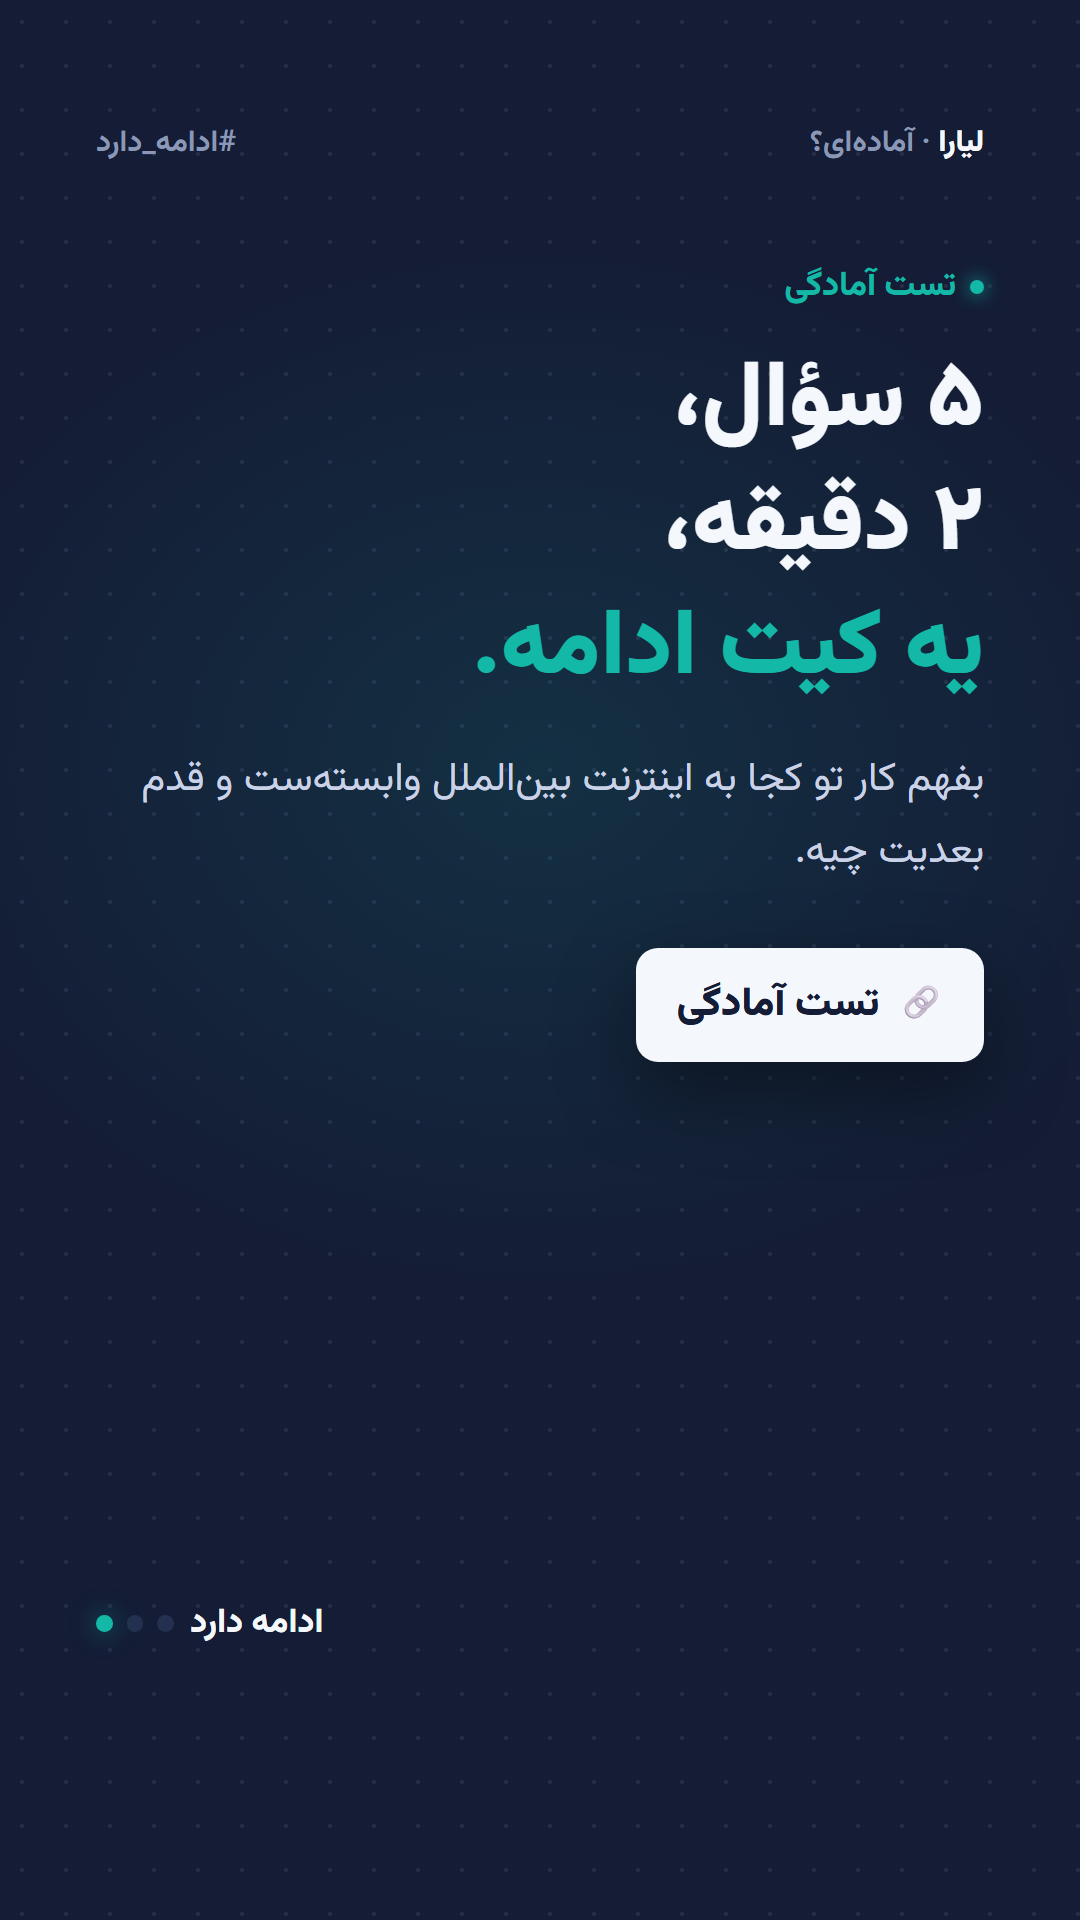
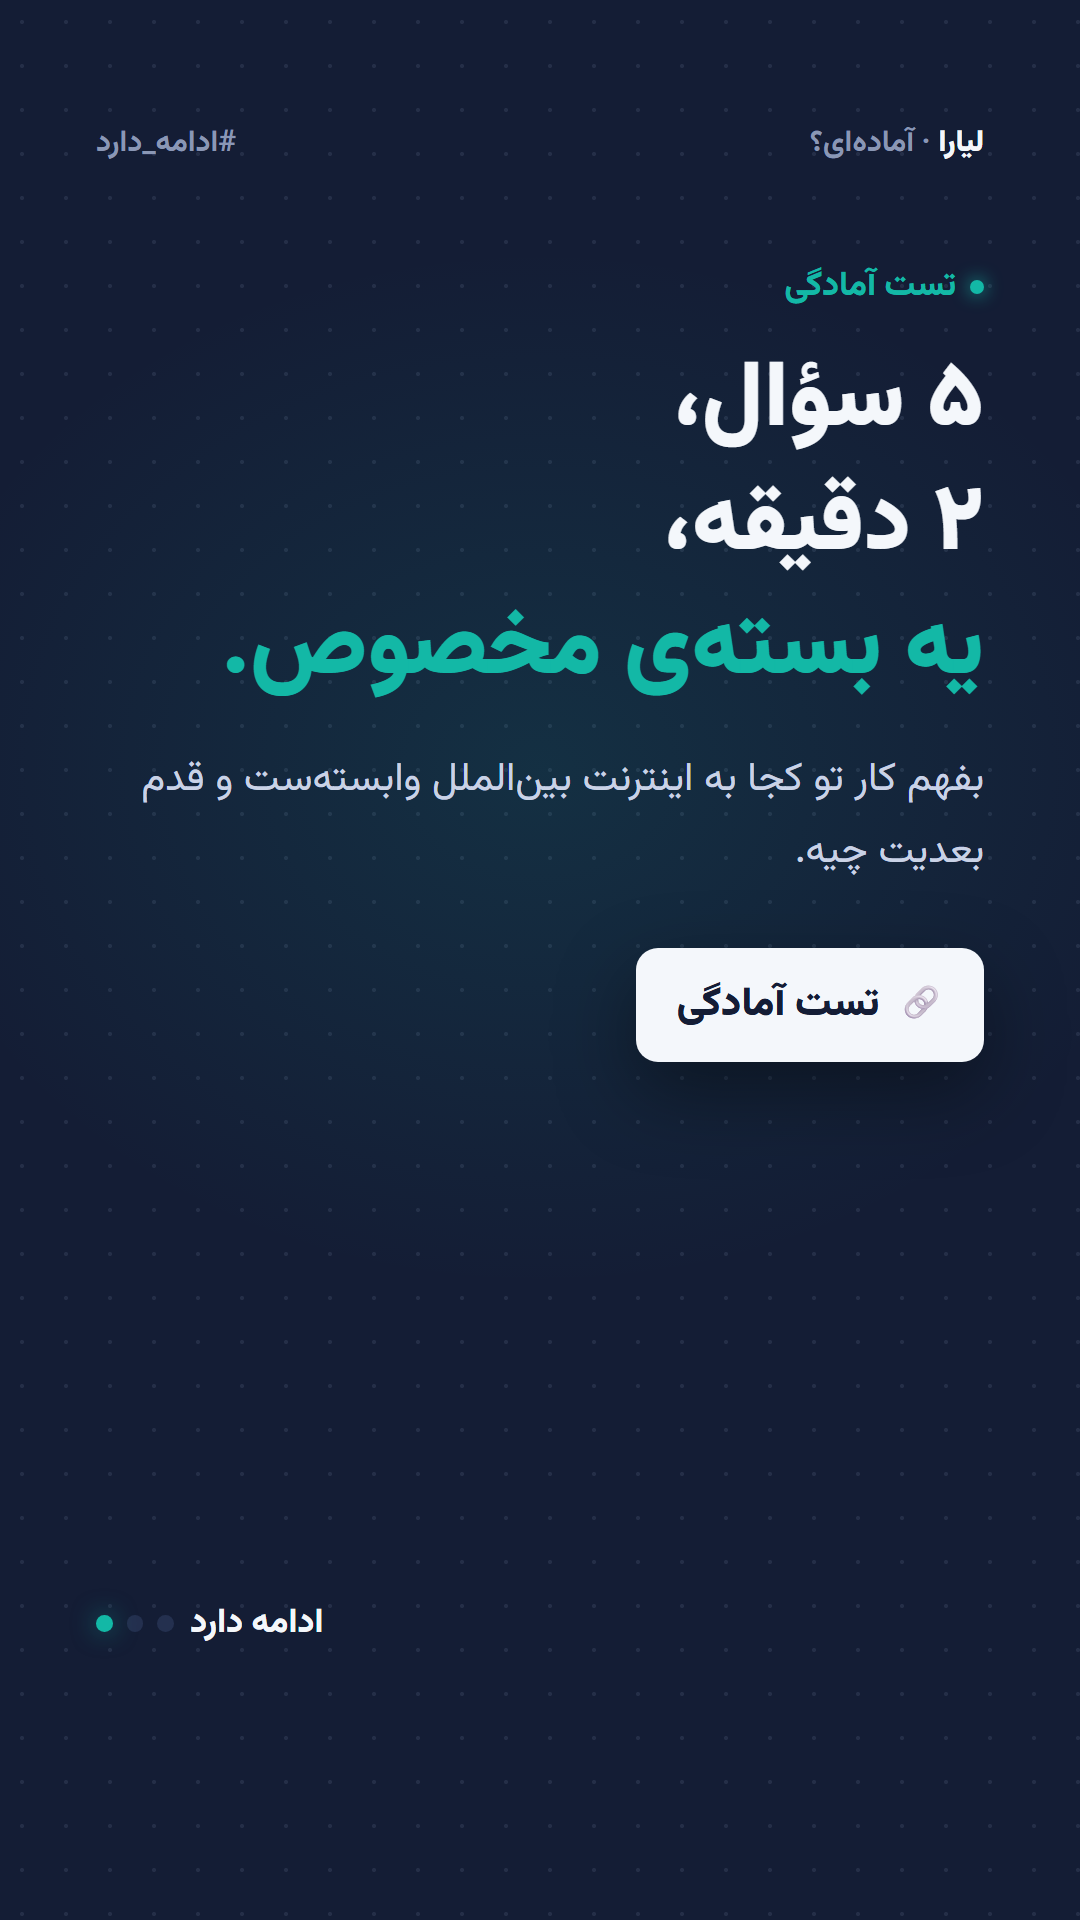
Rename کیت ادامه to بستهی مخصوص across the campaign
Landing quiz result, copy button and copied text, share description,
readiness story, carousel caption, LinkedIn post, showcase page and
strategy doc.

Changed region(s): [[0.2139, 0.3125, 0.5194, 0.375], [0.55, 0.3125, 0.825, 0.375]]

diff --git a/landing/app.js b/landing/app.js
@@ -269,14 +269,14 @@
       : [];
     const todo = [...all.filter((x) => !x.done), ...extra, { ...DRILL, done: false }, ...all.filter((x) => x.done)];
 
-    const kitText = `کیت ادامهی من — امتیاز آمادگی: ${fa(score)} از ۱۰۰\n` +
+    const kitText = `بستهی مخصوص من — امتیاز آمادگی: ${fa(score)} از ۱۰۰\n` +
       todo.map((x, i) => `${x.done ? '✓' : '☐'} ${fa(i + 1)}. ${x.t} — ${x.d}`).join('\n') +
       `\n\n#ادامه_دارد · اینترنت ممکنه قطع بشه، مسیرت نه.`;
 
     stage.innerHTML = `
       <div class="result-top">
         <div class="ring" style="--p:${motion ? 0 : score};--c:${level.c}"><b>${fa(motion ? 0 : score)}</b></div>
-        <div><div class="q-count">کیت ادامهی ${BIZ[biz].name}</div><h3>${level.h}</h3><p>${level.p}</p></div>
+        <div><div class="q-count">بستهی مخصوص ${BIZ[biz].name}</div><h3>${level.h}</h3><p>${level.p}</p></div>
       </div>
       <div class="kit">
         ${todo.map((x, i) => `
@@ -288,7 +288,7 @@
       </div>
       <div class="result-actions">
         <a class="btn" href="${L.auth}" data-track="quiz_result_${score}">ثبتنام و شروع روی لیارا</a>
-        <button class="btn btn-ghost" id="copy-kit">کپی کیت ادامه</button>
+        <button class="btn btn-ghost" id="copy-kit">کپی بسته</button>
         <button class="btn btn-ghost" id="restart">دوباره</button>
       </div>
       <p class="disclaimer">این امتیاز یک خودارزیابی سریعه؛ ارزیابی تخصصی یا تضمین دسترسپذیری نیست. سناریوی واقعی کارت رو حتماً تست کن.</p>`;

diff --git a/landing/index.html b/landing/index.html
@@ -6,7 +6,7 @@
 <title>ادامه دارد… | اینترنت ممکنه قطع بشه، مسیرت نه — کمپین لیارا</title>
 <meta name="description" content="کار تو حتی وسط قطعی اینترنت بینالملل هم میتونه ادامه پیدا کنه: میرورهای ایرانی، زیرساخت داخل ایران و یک تست آمادگی ۲ دقیقهای.">
 <meta property="og:title" content="ادامه دارد… — اینترنت ممکنه قطع بشه، مسیرت نه.">
-<meta property="og:description" content="تست آمادگی ۲ دقیقهای و کیت ادامهی مخصوص کار تو، با راهکارهای لیارا.">
+<meta property="og:description" content="تست آمادگی ۲ دقیقهای و بستهی مخصوص کار تو، با راهکارهای لیارا.">
 <meta property="og:image" content="https://royajafari.github.io/liara-edame-darad/linkedin/linkedin-cover.png">
 <meta property="og:url" content="https://royajafari.github.io/liara-edame-darad/landing/">
 <meta name="twitter:card" content="summary_large_image">

diff --git a/index.html b/index.html
@@ -65,7 +65,7 @@
   </div>
 
   <h2><span class="n">۰۴</span>لندینگ کمپین <a href="landing/">باز کردن ←</a></h2>
-  <p>تست آمادگی ۵ سؤالی که «کیت ادامه»ی اختصاصی میسازد؛ بدون هیچ وابستگی خارجی.</p>
+  <p>تست آمادگی ۵ سؤالی که برای هر کسبوکار «بستهی مخصوص» میسازد؛ بدون هیچ وابستگی خارجی.</p>
 
   <h2><span class="n">۰۵</span>انتشار در لینکدین <a href="linkedin/post.md">متن پست ←</a></h2>
   <div class="li"><img src="linkedin/linkedin-cover.png" alt="کاور لینکدین"></div>

diff --git a/highlights/highlights.html b/highlights/highlights.html
@@ -159,7 +159,7 @@ story('s3-2', '', 'زیرساخت', `
 // 4 — آمادهای؟
 story('s4-1', '', 'آمادهای؟', `
   <div class="eyebrow">تست آمادگی</div>
-  <h2>۵ سؤال،<br>۲ دقیقه،<br><em>یه کیت ادامه.</em></h2>
+  <h2>۵ سؤال،<br>۲ دقیقه،<br><em>یه بستهی مخصوص.</em></h2>
   <p class="body">بفهم کار تو کجا به اینترنت بینالملل وابستهست و قدم بعدیت چیه.</p>
   <div class="link">تست آمادگی</div>`);
 story('s4-2', '', 'آمادهای؟', `

diff --git a/docs/strategy.md b/docs/strategy.md
@@ -32,7 +32,7 @@
 | | مخاطب | دغدغه | نقش در کمپین |
 |---|---|---|---|
 | **اصلی** | توسعهدهندهها و تیمهای فنی (فریلنسر تا CTO استارتاپ) | `npm install` و `docker pull` کار نمیکند؛ سرور خارجی در دسترس نیست | همهی کاروسل و هایلایتها با زبان و تصویر آنها (ترمینال) ساخته شده |
-| **ثانویه** | صاحبان فروشگاه اینترنتی | توقف فروش، درگاه و پیامک | بخش «کار تو چیه؟» لندینگ + آیتم اختصاصی در کیت ادامه |
+| **ثانویه** | صاحبان فروشگاه اینترنتی | توقف فروش، درگاه و پیامک | بخش «کار تو چیه؟» لندینگ + آیتم اختصاصی در بستهی مخصوص |
 | **ثانویه** | مدیران IT سازمانها | تداوم سرویس، بکاپ و بازیابی | بخش «سامانهی سازمانی» لندینگ |
 
 **لحن:** صمیمی و محاورهای («تو»)، رک، فنی، آرام. نمیترسانیم؛ آماده میکنیم.
@@ -58,7 +58,7 @@ flowchart TD
     A["Attention<br>کاروسل: ترمینال ETIMEDOUT<br>پست لینکدین"] --> B["Interest<br>اسلایدهای ۲ تا ۶<br>هایلایت قطعی؟ و میرورها"]
     B --> C["Desire<br>چکلیست قابلذخیره، اسلاید ۷<br>«تنها نیستی»، اسلاید ۸"]
     C --> D["Action 1: لینک بیو → لندینگ"]
-    D --> E["تست آمادگی ۵ سؤالی<br>→ کیت ادامهی اختصاصی"]
+    D --> E["تست آمادگی ۵ سؤالی<br>→ بستهی مخصوص"]
     E --> F["Action 2: کنسول لیارا<br>UTM بر اساس امتیاز"]
     F --> G["Retention<br>هایلایت شروع کن، مستندات، تمرین قطعی"]
 ```
@@ -67,8 +67,8 @@ flowchart TD
 |---|---|---|
 | آگاهی | اسلاید ۱ کاروسل، پست لینکدین | قلاب «کار تو چی؟» + فوتر «ادامه دارد…» |
 | علاقه | اسلایدهای ۲ تا ۶، هایلایتهای «قطعی؟» و «میرورها» | راهکار مشخص و قابلامتحان (دستور یکخطی) |
-| تمایل | اسلاید ۷ (چکلیست، برای Save)، اسلاید ۸ (همراهی) | «کیت ادامهی مخصوص کارت» در اسلاید ۹ |
-| اقدام | لندینگ: تست آمادگی، انتخاب نوع کسبوکار | CTAهای شخصیشده در کیت ادامه |
+| تمایل | اسلاید ۷ (چکلیست، برای Save)، اسلاید ۸ (همراهی) | «بستهی مخصوص کارت» در اسلاید ۹ |
+| اقدام | لندینگ: تست آمادگی، انتخاب نوع کسبوکار | CTAهای شخصیشده در بستهی مخصوص |
 | تبدیل | کنسول لیارا | پرداخت ساعتی = ریسک پایین برای امتحان |
 | وفاداری | هایلایت «شروع کن»، مستندات، تمرین قطعی | آمادگی تمرینشونده است، نه یکباره |
 
@@ -112,7 +112,7 @@ flowchart TD
 
 ### لندینگ
 
-Hero (ترمینال زنده) ← «در قسمت قبل…» (مسئله) ← سه قدم تا ادامه (دستورهای قابلکپی) ← کار تو چیه؟ (سه نوع کسبوکار) ← تست آمادگی و کیت ادامه ← تنها نیستی ← FAQ صادقانه ← «قسمت بعدی رو خودت بنویس».
+Hero (ترمینال زنده) ← «در قسمت قبل…» (مسئله) ← سه قدم تا ادامه (دستورهای قابلکپی) ← کار تو چیه؟ (سه نوع کسبوکار) ← تست آمادگی و بستهی مخصوص ← تنها نیستی ← FAQ صادقانه ← «قسمت بعدی رو خودت بنویس».
 
 **اثبات عملی:** لندینگ هیچ وابستگی خارجی ندارد و تعداد درخواستهای خارجی را زنده با Performance API نمایش میدهد.
 

diff --git a/linkedin/post.md b/linkedin/post.md
@@ -22,7 +22,7 @@
 1⃣ هویت بصری: لوگوتایپ، پالت سرمهای/فیروزهای/کهربایی و تایپوگرافی وزیرمتن
 2⃣ کاروسل ۹ اسلایدی: از ترمینالی که `ETIMEDOUT` میده تا راهکار؛ هر اسلاید مثل یک قسمت سریال با «ادامه دارد…» تموم میشه
 3⃣ ۵ هایلایت اینستاگرام با ۱۱ استوری: قطعی؟ · میرورها · زیرساخت · آمادهای؟ · شروع کن
-4⃣ لندینگ تعاملی با تست آمادگی ۲ دقیقهای که برای هر کسبوکار یک «کیت ادامه»ی اختصاصی میسازه
+4⃣ لندینگ تعاملی با تست آمادگی ۲ دقیقهای که برای هر کسبوکار یک «بستهی مخصوص» میسازه
 
 یه جزئیات که دوستش داریم: لندینگ کمپین **حتی یک درخواست به سرور خارجی نداره**؛ فونت، تصویر و اسکریپت همه از همون سرور میان، و خود صفحه این عدد رو زنده نشون میده. کمپینی که دربارهی وابستگی به اینترنت بینالملل حرف میزنه، باید اول خودش این حرف رو رعایت کنه.
 

diff --git a/carousel/caption.md b/carousel/caption.md
@@ -11,7 +11,7 @@
 ۳. آمادگی: بکاپ، تمرین قطعی و چکلیست
 
 📌 اسلاید ۷ رو ذخیره کن.
-🔗 تست آمادگی ۲ دقیقهای و «کیت ادامه»ی مخصوص کارت: لینک بیو
+🔗 تست آمادگی ۲ دقیقهای و بستهی مخصوص کارت: لینک بیو
 
 اینترنت ممکنه قطع بشه، مسیرت نه.
 
